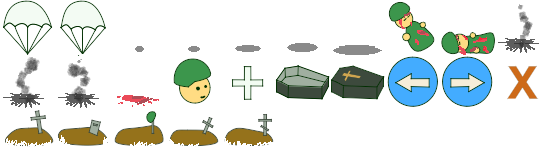
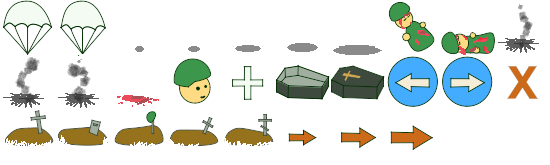
ftr(*): add tutorial

Changed region(s): [[0.6182, 0.7576, 0.8036, 0.9091], [0.5255, 0.7879, 0.5873, 0.8788]]

diff --git a/minesweeper/src/game/city/City.js b/minesweeper/src/game/city/City.js
@@ -41,7 +41,7 @@ export default class City {
      * @param {Reserve} reserve
      * @param {Graphics} graphics
      */
-    constructor(scene, status, reserve, graphics, audio) {
+    constructor(scene, status, reserve, graphics, audio, transfer) {
         const me = this;
 
         me._scene = scene;
@@ -49,6 +49,9 @@ export default class City {
         me._status = status;
         me._graphics = graphics;
         me._audio = audio;
+        me._transfer = transfer;
+
+        me._needTutorial = me._status.level == Consts.FirstLevel;
 
         scene.add.image(-Consts.Viewport.Width / 2, Consts.Viewport.Height / 2, 'city_background')
             .setDepth(Consts.Depth.Background);
@@ -94,6 +97,21 @@ export default class City {
 
             me._citizenPool.spawn(position, me._status.level);
         }
+
+        if (me._needTutorial) {
+            me._needTutorial = false;
+
+            const tutorial = me._scene.add.text(
+                -Consts.Viewport.Width / 2, 
+                600, 
+                'Click on people',
+                { fontFamily: "Arial Black", fontSize: 24, color: '#e3f0ff' })
+                .setDepth(Consts.Depth.UI)
+                .setOrigin(0.5)
+                .setShadow(2, 2, '#333333', 2);
+
+            me._scene.time.delayedCall(5000, () => tutorial.setVisible(false));
+        }
     }
 
     pause() {
@@ -124,6 +142,17 @@ export default class City {
         me._status.avaialbeCitizens -= 1;
         me._hud.setText(me._status.avaialbeCitizens);
         me._audio.play('action_end');
+
+        if (!me._reserve.hasEmptyPlace() || me._citizenPool._pool.getChildren().length == 0) {
+            me._scene.add.tween({
+                targets: me._transfer._button,
+                scale: { from: 1, to: 2 },
+                yoyo: true,
+                duration: 500,
+                onComplete: () => me._transfer._button.setScale(1),
+            });
+        }
+
         me._status.free();
     }
 
@@ -170,7 +199,7 @@ export default class City {
                 me._cemetry[index.i][index.j] = true;
 
                 me._audio.play('action_end');
-
+                me._reserve.updateHud(0);
                 me._status.free();
             }
         })

diff --git a/minesweeper/src/game/minesweeper/Minesweeper.js b/minesweeper/src/game/minesweeper/Minesweeper.js
@@ -66,7 +66,7 @@ export default class Minesweeper {
      * @param {Status} status
      * @param {Graphics} graphics
      */
-    constructor(scene, status, graphics, reserve, audio, mineTheme) {
+    constructor(scene, status, graphics, reserve, audio, mineTheme, transfer) {
         const me = this;
 
         me._scene = scene;
@@ -74,6 +74,8 @@ export default class Minesweeper {
         me._graphics = graphics;
         me._audio = audio;
         me._mineTheme = mineTheme;
+        me._needTutorial = status.level == Consts.FirstLevel;
+        me._transfer = transfer;
 
         scene.add.image(
                 Consts.Viewport.Width / 2, 
@@ -353,6 +355,22 @@ export default class Minesweeper {
                 return;
             }
 
+        if (me._needTutorial) {
+            me._transfer._button.setVisible(true);
+
+            me._scene.add.tween({
+                targets: me._transfer._button,
+                scale: { from: 1, to: 2 },
+                yoyo: true,
+                duration: 500,
+                onComplete: () => me._transfer._button.setScale(1),
+            });
+        }
+
+        me._reserve.updateHud(me._corpses.length);
+
+        me._needTutorial = false;
+
         me._field.lockAlpha = false;
         me._status.free();        
     }
@@ -402,6 +420,9 @@ export default class Minesweeper {
         me._field.explode(cellIndex);
         me._maxFlags -= 1;
         me._updateHud();
+
+        if (me._needTutorial)
+            me._scene.sound.stopByKey('city_theme');
         
         me._killSoldier(soldierIndex, cellIndex, Enums.Death.Mine);
     }

diff --git a/minesweeper/src/game/Core.js b/minesweeper/src/game/Core.js
@@ -66,9 +66,9 @@ export default class Core {
         me._mineTheme = scene.sound.add('mine_theme', { volume: 0.25, loop: true });
 
         const graphics = new Graphics(scene);
-        me._minesweeper = new Minesweeper(scene, me._status, graphics, me._reserve, me._audio, me._mineTheme);
+        me._minesweeper = new Minesweeper(scene, me._status, graphics, me._reserve, me._audio, me._mineTheme, me._screenTransfer);
 
-        me._city = new City(scene, me._status, me._reserve, graphics, me._audio);
+        me._city = new City(scene, me._status, me._reserve, graphics, me._audio, me._screenTransfer);
 
         if (Config.Levels[me._status.level].StartInCity) {
             me._city.resume();
@@ -79,7 +79,14 @@ export default class Core {
             if (me._status.level != Consts.LastLevel)
                 me._cityTheme.play();
         } else {
-            me._mineTheme.play();
+            if (me._status.level != Consts.FirstLevel)
+                me._mineTheme.play();
+            else {
+                // first level!!!
+                me._cityTheme.play();
+                me._reserve._container.setVisible(false);
+                me._screenTransfer._button.setVisible(false);
+            }
         }
 
         scene.input.mouse.disableContextMenu();
@@ -195,6 +202,9 @@ export default class Core {
                 }
 
                 me._reserve.shift(me._status.isCity);
+                me._reserve._container.setVisible(true);
+                me._reserve.updateHud(0);
+
                 me._screenTransfer.onTransferEnd();
                 me._status.free();
             }

diff --git a/minesweeper/src/game/Reserve.js b/minesweeper/src/game/Reserve.js
@@ -36,6 +36,7 @@ export default class Reserve {
         me._x = x;
 
         me._reserve = [];
+        const children =[];
         for (let i = 0; i < maxSize; ++i) {
 
             const content = i >= startCount
@@ -47,13 +48,21 @@ export default class Reserve {
 
             sprite.on('pointerdown', me._onReserveClick, me);
 
+            const arrow = scene.add.sprite(sprite.x - 55, sprite.y, 'items', 25)
+                .setVisible(false)
+                .play('arrow_reserve');
+
             me._reserve.push({
                 sprite: sprite,
-                content: content
+                content: content,
+                arrow: arrow
             });
+
+            children.push(sprite);
+            children.push(arrow);
         }
 
-        me._container = scene.add.container(x, y, me._reserve.map(r => r.sprite))
+        me._container = scene.add.container(x, y, children)
             .setDepth(Consts.Depth.UI);
 
         me.emitter = new Phaser.Events.EventEmitter();
@@ -192,5 +201,17 @@ export default class Reserve {
             return;
 
         me.emitter.emit('coffinClick');
+    }
+
+    updateHud(corpses) {
+        const me = this;
+
+        if (me._status.isCity) {
+            for (let i = 0; i < me._reserve.length; ++i)
+                me._reserve[i].arrow.setVisible(me._reserve[i].content == Enums.Reserve.ClosedCoffin);
+        } else {
+            for (let i = 0; i < me._reserve.length; ++i)
+                me._reserve[i].arrow.setVisible(me._reserve[i].content == Enums.Reserve.OpenCoffin && corpses > 0);
+        }
     }
 }

diff --git a/minesweeper/src/game/minesweeper/Field.js b/minesweeper/src/game/minesweeper/Field.js
@@ -412,11 +412,24 @@ export default class Field {
             return mines;
         }
 
-        const mines = Utils.buildArray(me._cells.length * me._cells[0].length, false);
+        let mines = Utils.buildArray(me._cells.length * me._cells[0].length, false);
         for (let i = 0; i < Config.Levels[me._status.level].Mines; ++i)
             mines[i] = true;
 
-        return Utils.shuffle(mines);
+        mines = Utils.shuffle(mines);
+
+        if (me._status.level == Consts.FirstLevel && !mines[index]) {
+
+            for (let i = 0; i < mines.length; ++i) {
+                    if (mines[i]) {
+                        mines[i] = false;
+                        mines[index] = true;
+                        return mines;
+                    }
+                }
+        }
+
+        return mines;
     }
 
     _increaseAlpha(force) {

diff --git a/minesweeper/src/game/Config.js b/minesweeper/src/game/Config.js
@@ -1,14 +1,14 @@
 export default class Config {
 
     static Debug = {
-        Global: true,
+        Global: false,
         Log: true,
         ShowSceneLog: false,
         PlaySound: true,
         Random: false,
         Level: true,
         Restart: true,
-        Mines: false,
+        Mines: true,
         TweenSpeed: false,
         Timer: false,
         LevelName: true
@@ -21,7 +21,7 @@ export default class Config {
         Height: 10
     };
 
-    static StartLevelIndex = 2;
+    static StartLevelIndex = 1;
 
     static DebugMines = [
         [2, 2, 2, 2, 2, 2, 2, 2, 2, 2],
@@ -60,7 +60,7 @@ export default class Config {
         },
         //1
         {
-            Mines: 20,
+            Mines: 21,
             TimerDeathProbability: 40,
             ReserveStartCount: 0,
             StartInCity: true,

diff --git a/minesweeper/src/game/utils/Animation.js b/minesweeper/src/game/utils/Animation.js
@@ -34,6 +34,14 @@ export default class Animation {
         });
 
         scene.anims.create({
+            key: 'arrow_reserve',
+            frames: Animation.getFrames(scene, 'items', [ 25, 26, 27 ]),
+            frameRate: 8,
+            yoyo: true,
+            repeat: -1
+        });
+
+        scene.anims.create({
             key: 'clock_alarm',
             frames: 'clock',
             frameRate: 2,

diff --git a/minesweeper/src/Main.js b/minesweeper/src/Main.js
@@ -9,7 +9,7 @@ export default new Phaser.Game({
     width: Consts.Viewport.Width,
     height: Consts.Viewport.Height,
     scene: [ 
-        // Start,
+        Start,
         Game
         ],
     physics: {
